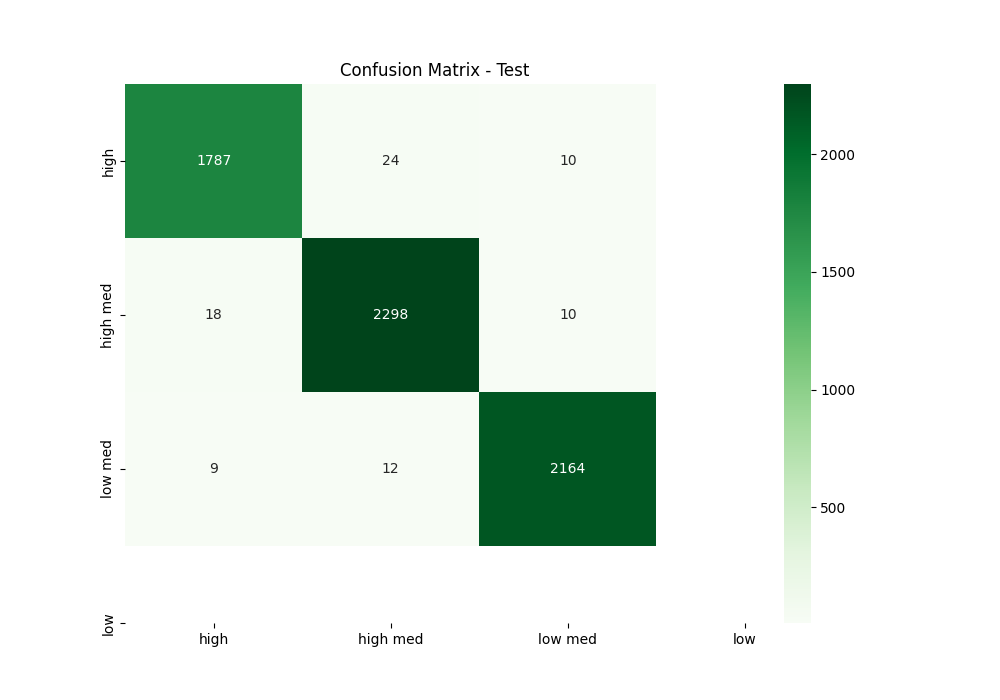
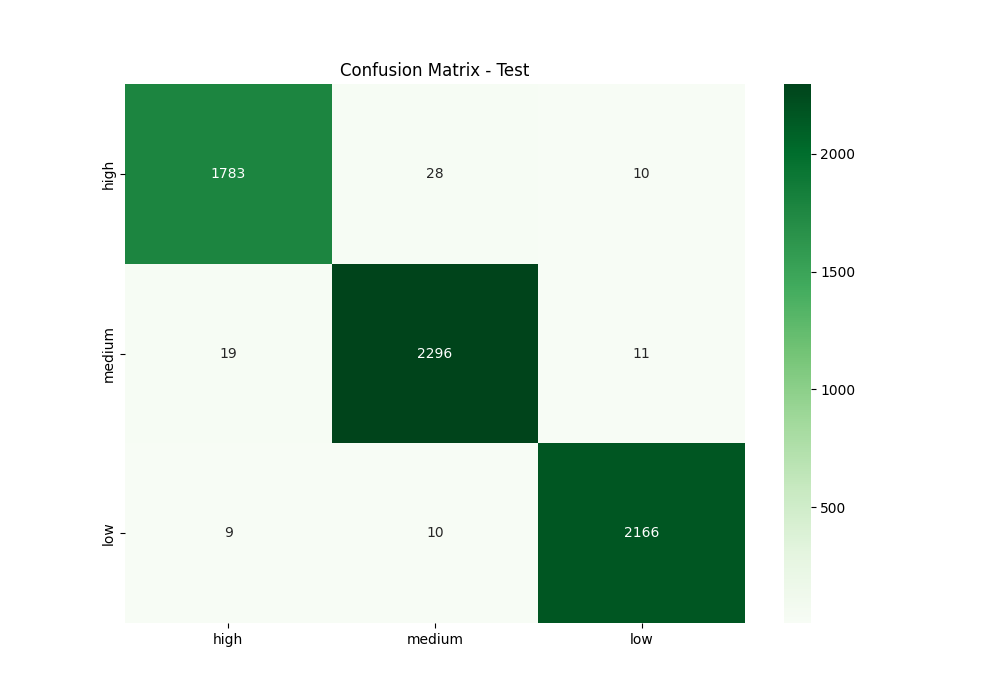
tcc finalizado

diff --git a/um1.py b/um1.py
@@ -18,6 +18,7 @@ from sklearn.metrics import accuracy_score
 from sklearn.metrics import classification_report
 from sklearn.metrics import confusion_matrix
 from sklearn.model_selection import cross_val_predict
+from mlxtend.plotting import plot_decision_regions
 
 mpl.use('Agg')
 mpl.rcParams['figure.max_open_warning'] = 50
@@ -66,9 +67,25 @@ def get_class_rules(tree: DecisionTreeClassifier, feature_names: list):
     tree_dfs()  # começa da raiz, node_id = 0
     return class_rules_dict
 
-def cluster_report(data: pd.DataFrame, clusters, criterion='entropy', max_depth=11, min_samples_leaf=4):
-    tree = DecisionTreeClassifier(criterion=criterion, max_depth=max_depth, min_samples_leaf=min_samples_leaf)
-    tree.fit(data, clusters)
+def cluster_report(data: pd.DataFrame, clusters, criterion='entropy',  max_depth=4, min_samples_leaf=1, use_pruning=False):
+    if use_pruning:
+        X_train, X_test, y_train, y_test = train_test_split(data, clusters, test_size=0.3, random_state=42)
+        tree = DecisionTreeClassifier(random_state=42)
+        path = tree.cost_complexity_pruning_path(X_train, y_train)
+        ccp_alphas, impurities = path.ccp_alphas, path.impurities
+
+        trees = []
+        for ccp_alpha in ccp_alphas:
+            tree = DecisionTreeClassifier(random_state=42, ccp_alpha=ccp_alpha)
+            tree.fit(X_train, y_train)
+            trees.append(tree)
+
+        test_scores = [tree.score(X_test, y_test) for tree in trees]
+        best_alpha_index = np.argmax(test_scores)
+        tree = trees[best_alpha_index]
+    else:
+        tree = DecisionTreeClassifier(criterion=criterion, max_depth=max_depth, min_samples_leaf=min_samples_leaf)
+        tree.fit(data, clusters)
 
     feature_names = data.columns
     class_rule_dict = get_class_rules(tree, feature_names)
@@ -95,7 +112,6 @@ def print_cluster_report(report_df):
         for rule in rules:
             print(f"  - {rule}")
         print("\n")
-
 
 @analise.route('/gerar_graficos')
 def dashboard_um_console():
@@ -143,18 +159,18 @@ def dashboard_um_console():
     # # Verificação de Duplicatas
     # df.drop_duplicates(inplace=True)
 
-    # Informações após o tratamento
-    # print("Shape do DataFrame:")
-    # print(df.shape)
-    # print(" ")
-    # print("Valores nulos por coluna:")
-    # print(df.isnull().sum())
-    # print(" ")
-    # print("Tipos de dados:")
-    # print(df.dtypes)
-    # print(" ")
-    # print("Primeiras linhas do DataFrame:")
-    # print(df.head())
+    #Informações após o tratamento
+    print("Shape do DataFrame:")
+    print(df.shape)
+    print(" ")
+    print("Valores nulos por coluna:")
+    print(df.isnull().sum())
+    print(" ")
+    print("Tipos de dados:")
+    print(df.dtypes)
+    print(" ")
+    print("Primeiras linhas do DataFrame:")
+    print(df.head())
 
     # primeiro_dia = df['data'].min().strftime("%d %b %Y") 
     # ultimo_dia = df['data'].max().strftime("%d %b %Y") 
@@ -348,28 +364,30 @@ def dashboard_um_console():
     plt.close()
 
     silhouette_avg_silhouette = silhouette_score(X_scaled, kmeans_silhouette.labels_)
+    elbow_avg_silhouette = silhouette_score(X_scaled, kmeans_elbow.labels_)
     davies_bouldin_silhouette = davies_bouldin_score(X_scaled, kmeans_silhouette.labels_)
     davies_bouldin_elbow = davies_bouldin_score(X_scaled, kmeans_elbow.labels_)
 
     print(f'Silhouette Score (Silhouette): {silhouette_avg_silhouette}')
+    print(f'Silhouette Score (Silhouette): {elbow_avg_silhouette}')
     print(f'Davies-Bouldin Score (Silhouette): {davies_bouldin_silhouette}')
     print(f'Davies-Bouldin Score (Elbow): {davies_bouldin_elbow}')
 
-    tree = DecisionTreeClassifier()
-    tree_para = {'criterion':['entropy','gini'],'max_depth':
-                 [4,5,6,7,8,9,10,11,12,15,20,30,40,50,70,90,120,150],
-                 'min_samples_leaf':[1,2,3,4,5]}
-    grid = GridSearchCV(tree, tree_para,verbose=5, cv=10)
-    grid.fit(X_scaled,kmeans_silhouette.labels_)
-    best_clf = grid.best_estimator_
-    best = best_clf
+    # tree = DecisionTreeClassifier()
+    # tree_para = {'criterion':['entropy','gini'],'max_depth':
+    #              [4,5,6,7,8,9,10,11,12,15,20,30,40,50,70,90,120,150],
+    #              'min_samples_leaf':[1,2,3,4,5]}
+    # grid = GridSearchCV(tree, tree_para,verbose=5, cv=10)
+    # grid.fit(X_scaled,kmeans_silhouette.labels_)
+    # best_clf = grid.best_estimator_
+    # best = best_clf
 
-    # Exibir resultados do GridSearchCV
-    best_params = grid.best_params_
-    best_score = grid.best_score_
+    # # Exibir resultados do GridSearchCV
+    # best_params = grid.best_params_
+    # best_score = grid.best_score_
     
-    print(f'Best parameters found: {best_params}')
-    print(f'Best score found: {best_score}')
+    # print(f'Best parameters found: {best_params}')
+    # print(f'Best score found: {best_score}')
 
     # Criação de conjuntos de treino e teste
     X_train, X_test, y_train, y_test = train_test_split(X_scaled,kmeans_silhouette.labels_,test_size=0.3,random_state=100)
@@ -414,7 +432,7 @@ def dashboard_um_console():
     print(f'Report: {report}')
     
     #Gera arvore de decisao
-    plt.figure(figsize=(100, 100))
+    plt.figure(figsize=(14, 8))
     plot_tree(tree, filled=True, fontsize=16, proportion=True)
     plt.subplots_adjust(wspace=0.8, hspace=0.8)
     plt.title("Decision Tree")
@@ -442,11 +460,24 @@ def dashboard_um_console():
     plt.savefig('static/graficos/new/um/df_decision_tree_poda.png')  # Salvando o gráfico
     plt.close()
 
-    # Relatório de clusters
-    report_df = cluster_report(pd.DataFrame(X_scaled, columns=df.columns), kmeans_silhouette.labels_)
+    # Relatório de clusters sem poda
+    report_df_no_pruning = cluster_report(pd.DataFrame(X_scaled, columns=df.columns), kmeans_silhouette.labels_)
+    # Relatório de clusters com poda
+    report_df_pruning = cluster_report(pd.DataFrame(X_scaled, columns=df.columns), kmeans_silhouette.labels_, use_pruning=True)
 
-    # Imprimir relatório no console
-    print_cluster_report(report_df)
+    # Imprimir relatórios no console
+    print("Relatório sem poda:")
+    print_cluster_report(report_df_no_pruning)
+
+    print("\nRelatório com poda:")
+    print_cluster_report(report_df_pruning)
+
+    # Plotagem das regiões de decisão usando plot_decision_regions
+    plt.figure(figsize=(10, 8))
+    plot_decision_regions(X_scaled, kmeans_silhouette.labels_, clf=kmeans_silhouette, legend=2)
+    plt.title('Regiões de Decisão KMeans (Silhouette)')
+    plt.savefig('static/graficos/new/um/decision_regions_silhouette.png')
+    plt.close()
 
     return "RESULTADO"
 

diff --git a/tres1.py b/tres1.py
@@ -20,6 +20,7 @@ from sklearn.metrics import accuracy_score
 from sklearn.metrics import classification_report
 from sklearn.metrics import confusion_matrix
 from sklearn.model_selection import cross_val_predict
+from mlxtend.plotting import plot_decision_regions
 
 mpl.use('Agg')
 mpl.rcParams['figure.max_open_warning'] = 50
@@ -60,7 +61,7 @@ def get_class_rules(tree: DecisionTreeClassifier, feature_names: list):
     tree_dfs()  # começa da raiz, node_id = 0
     return class_rules_dict
 
-def cluster_report(data: pd.DataFrame, clusters, criterion='entropy',  max_depth=50, min_samples_leaf=4, use_pruning=False):
+def cluster_report(data: pd.DataFrame, clusters, criterion='entropy', max_depth=50, min_samples_leaf=4, use_pruning=False):
     if use_pruning:
         X_train, X_test, y_train, y_test = train_test_split(data, clusters, test_size=0.3, random_state=42)
         tree = DecisionTreeClassifier(random_state=42)
@@ -417,8 +418,8 @@ def gerar_graficos():
 
     #Test
     cf = confusion_matrix(y_test,predictions_test)
-    lbl1 = ['high', 'high med', 'low med','low']
-    lbl2 = ['high', 'high med', 'low med','low']
+    lbl1 = ['high', 'medium', 'low']
+    lbl2 = ['high', 'medium', 'low']
     plt.figure(figsize=(10, 7))
     sns.heatmap(cf, annot=True, cmap="Greens", fmt="d", xticklabels=lbl1, yticklabels=lbl2)
     plt.title("Confusion Matrix - Test")
@@ -433,8 +434,8 @@ def gerar_graficos():
 
     predictions = cross_val_predict(tree,X_scaled,kmeans_elbow.labels_,cv=10)
     cf = confusion_matrix(kmeans_elbow.labels_,predictions)
-    lbl1 = ['high', 'high med', 'low med','low']
-    lbl2 = ['high', 'high med', 'low med','low']
+    lbl1 = ['high', 'medium', 'low']
+    lbl2 = ['high', 'medium', 'low']
     plt.figure(figsize=(10, 7))
     sns.heatmap(cf, annot=True, cmap="Greens", fmt="d", xticklabels=lbl1, yticklabels=lbl2)
     plt.title("Confusion Matrix - Cross Validation")
@@ -445,7 +446,7 @@ def gerar_graficos():
     print(f'Report: {report}')
     
     #Gera arvore de decisao
-    plt.figure(figsize=(100, 100))
+    plt.figure(figsize=(12, 8))
     plot_tree(tree, filled=True, fontsize=16, proportion=True)
     plt.subplots_adjust(wspace=0.8, hspace=0.8)
     plt.title("Decision Tree")
@@ -467,7 +468,7 @@ def gerar_graficos():
     best_alpha_index = np.argmax(test_scores)
     best_tree = trees[best_alpha_index]
 
-    plt.figure(figsize=(40, 30))
+    plt.figure(figsize=(12, 8))
     plot_tree(best_tree, filled=True, fontsize=12, proportion=True)
     plt.subplots_adjust(wspace=0.8, hspace=0.8)
     plt.savefig('static/graficos/new/tres/df_decision_tree_poda.png')  # Salvando o gráfico
@@ -483,6 +484,14 @@ def gerar_graficos():
     print_cluster_report(report_df_no_pruning)
     # print("\nRelatório com poda:")
     # print_cluster_report(report_df_pruning)
+
+    # Plotagem das regiões de decisão usando plot_decision_regions
+    plt.figure(figsize=(10, 8))
+    plot_decision_regions(X_pca, kmeans_elbow.labels_, clf=kmeans_elbow, legend=2)
+    plt.title('Regiões de Decisão KMeans (Elbow)')
+    plt.savefig('static/graficos/new/tres/decision_regions_elbow.png')
+    plt.close()
+
 
     return "Processamento concluído e informações exibidas no console."
 

diff --git a/dois1.py b/dois1.py
@@ -21,6 +21,7 @@ from sklearn.metrics import accuracy_score
 from sklearn.metrics import classification_report
 from sklearn.metrics import confusion_matrix
 from sklearn.model_selection import cross_val_predict
+from mlxtend.plotting import plot_decision_regions
 
 mpl.use('Agg')
 mpl.rcParams['figure.max_open_warning'] = 50
@@ -373,7 +374,7 @@ def gerar_graficos():
     print(f'Report: {report}')
     
     #Gera arvore de decisao
-    plt.figure(figsize=(100, 100))
+    plt.figure(figsize=(12, 8))
     plot_tree(tree, filled=True, fontsize=16, proportion=True)
     plt.subplots_adjust(wspace=0.8, hspace=0.8)
     plt.title("Decision Tree")
@@ -395,7 +396,7 @@ def gerar_graficos():
     best_alpha_index = np.argmax(test_scores)
     best_tree = trees[best_alpha_index]
 
-    plt.figure(figsize=(40, 30))
+    plt.figure(figsize=(12, 8))
     plot_tree(best_tree, filled=True, fontsize=12, proportion=True)
     plt.subplots_adjust(wspace=0.8, hspace=0.8)
     plt.savefig('static/graficos/new/dois/df_decision_tree_poda.png')  # Salvando o gráfico
@@ -411,6 +412,13 @@ def gerar_graficos():
     print_cluster_report(report_df_no_pruning)
     print("\nRelatório com poda:")
     print_cluster_report(report_df_pruning)
+
+    # Plotagem das regiões de decisão usando plot_decision_regions
+    plt.figure(figsize=(10, 8))
+    plot_decision_regions(X_pca, kmeans_silhouette.labels_, clf=kmeans_silhouette, legend=2)
+    plt.title('Regiões de Decisão KMeans (Silhouette)')
+    plt.savefig('static/graficos/new/dois/decision_regions_silhouette.png')
+    plt.close()
 
     return "Processamento concluído e informações exibidas no console."
 
